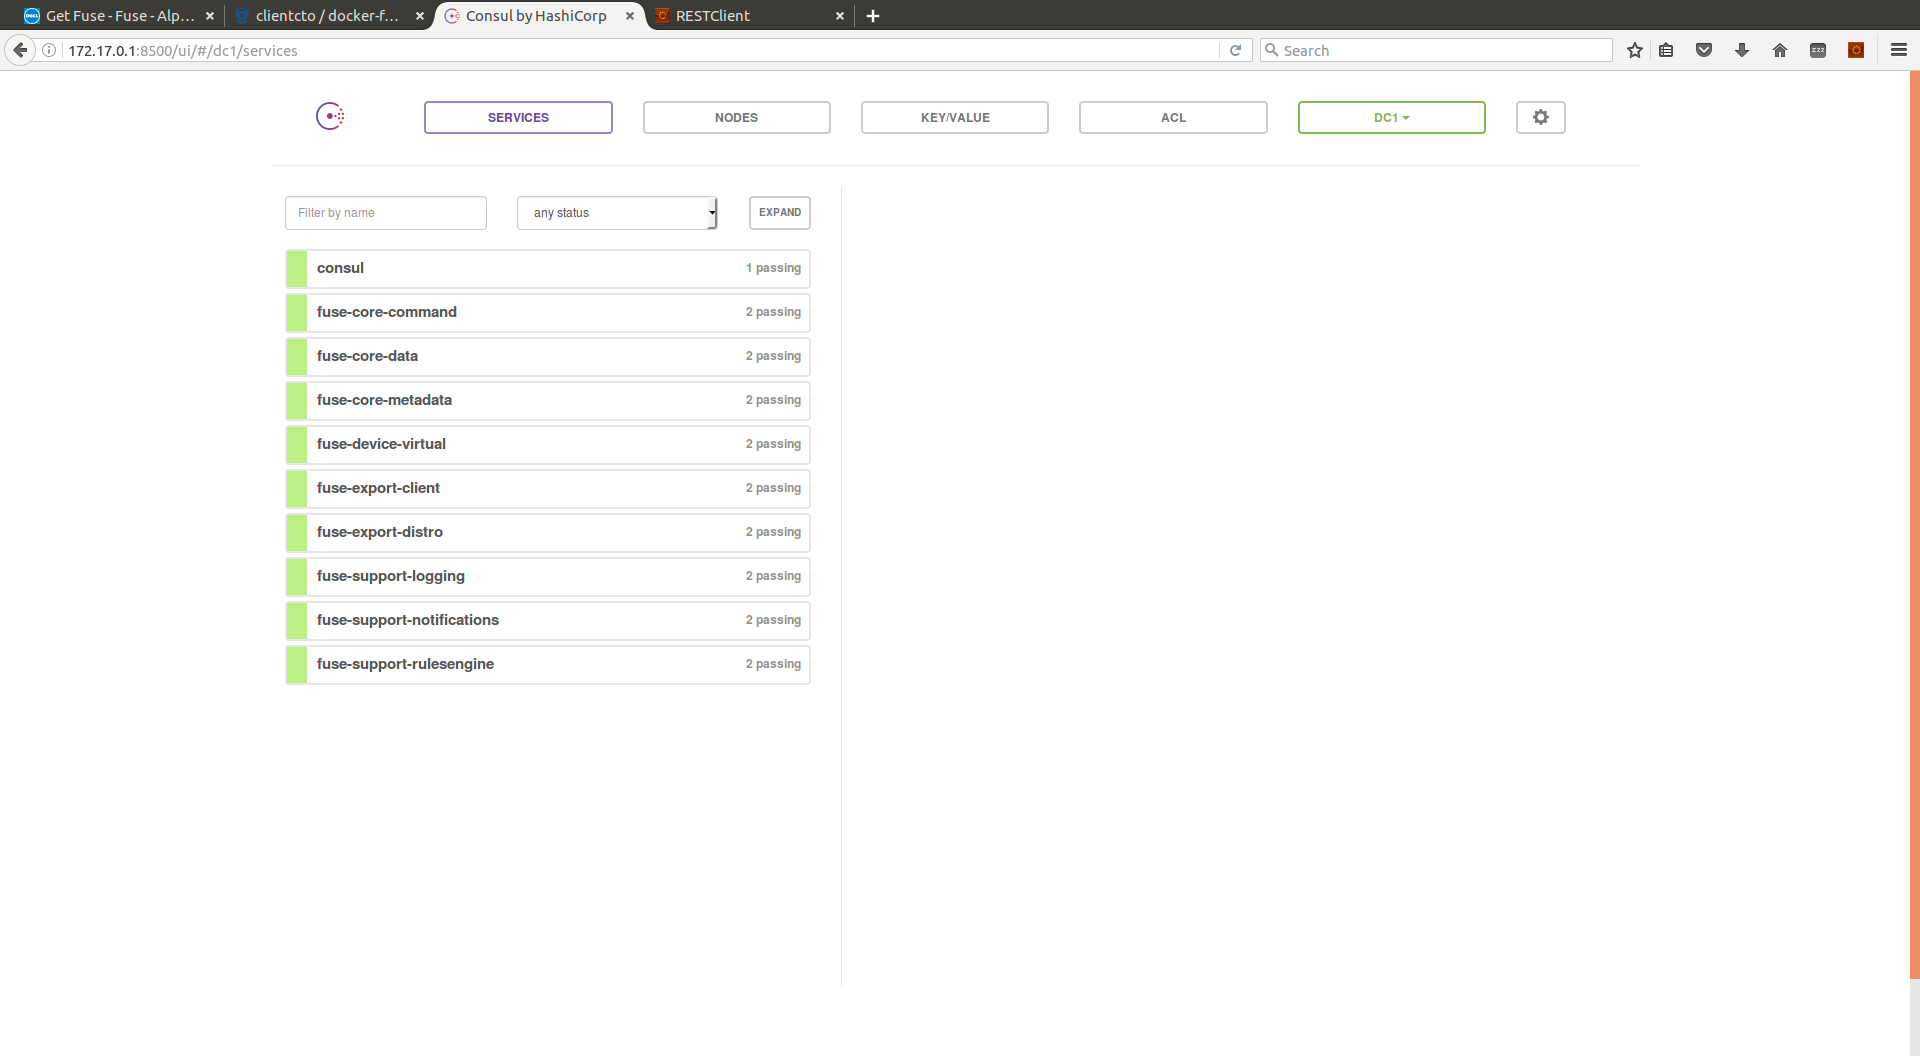
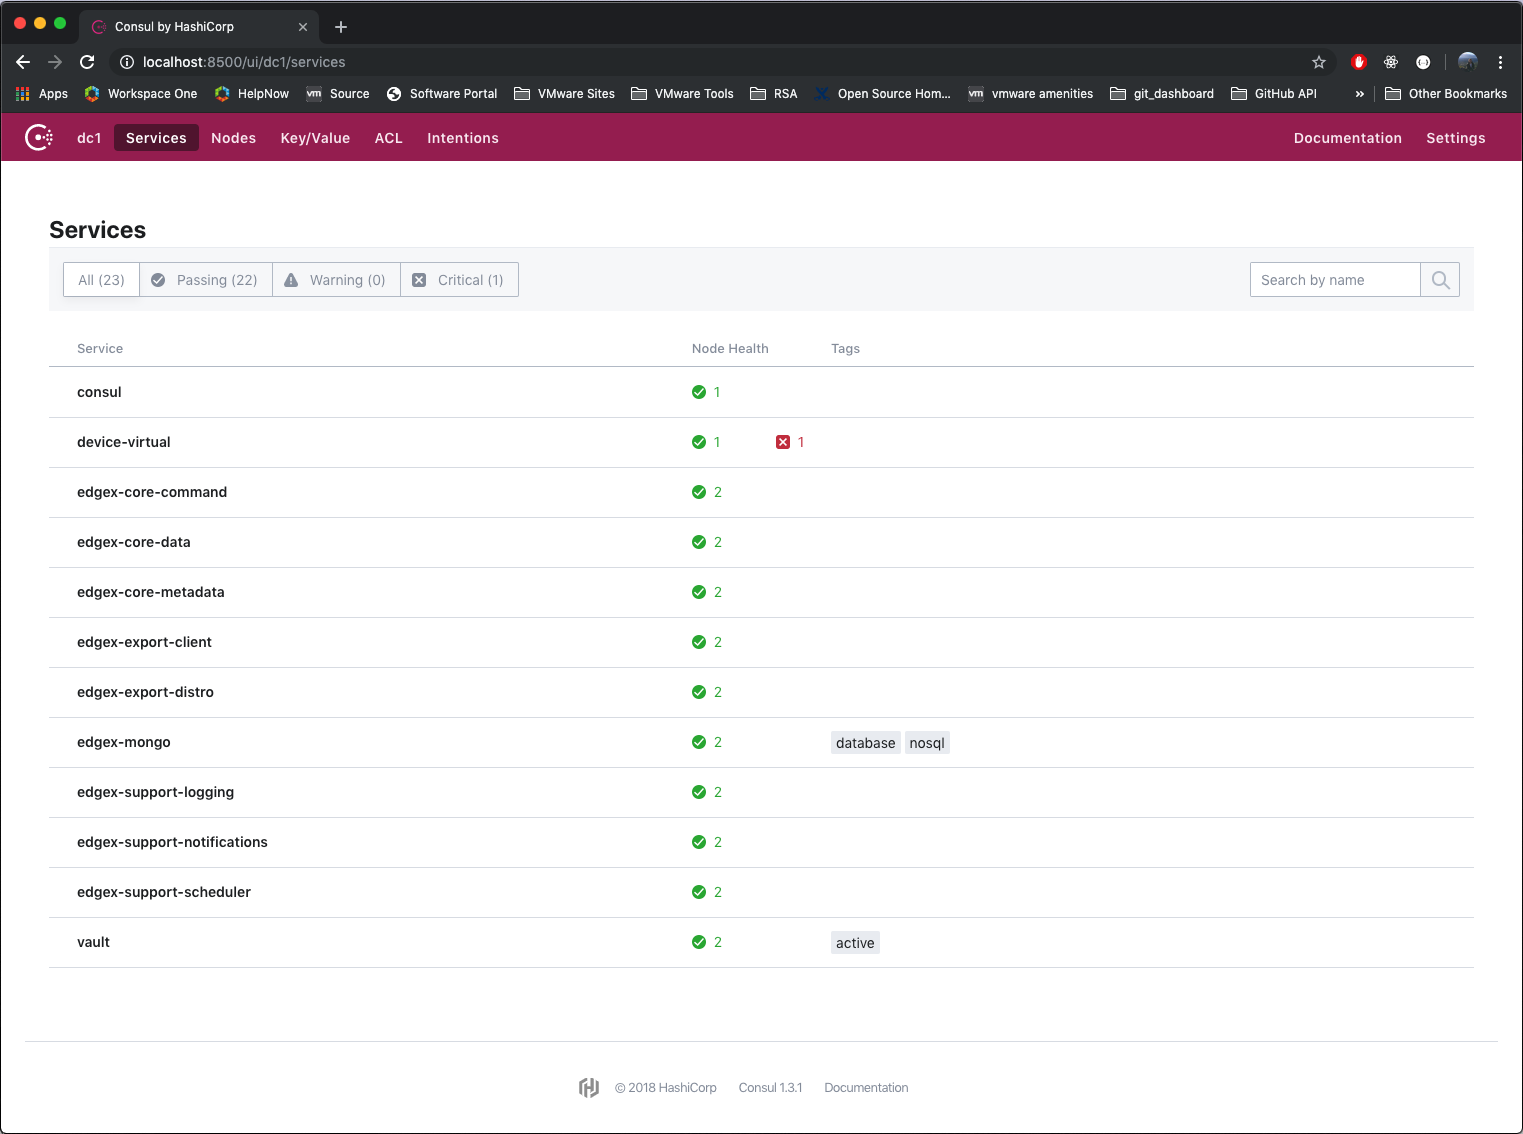
Fixes #1357: minor typos and new consul UI output in getting started user chapter

diff --git a/docs/getting-started/Ch-GettingStartedUsers.rst b/docs/getting-started/Ch-GettingStartedUsers.rst
@@ -15,30 +15,29 @@ To obtain and run EdgeX Foundry, perform the following steps:
 
 .. image:: EdgeX_GettingStartedUsrDocker.png
 
-=============
-What You Need
-=============
-EdgeX Foundry is an operating system (OS)-agnostic and hardware (HW)-agnostic edge software platform. Minimum platform requirements are being established. At this time use the following recommended characteristics:
+=====================
+Platform Requirements
+=====================
+EdgeX Foundry is an operating system (OS)-agnostic and hardware (HW)-agnostic IoT edge platform. While minimum platform requirements are yet being established, at this time the following options are recommended:
 
 * Memory:  minimum of 1 GB
-* Hard drive space:  minimum of 3 GB of space to run the EdgeX Foundry containers, but you may want more depending on how long sensor and device data is retained
-* OS: EdgeX Foundry has been run successfully on many systems including, but not limited to the following systems
+* Hard drive space:  minimum of 3 GB of space to run the EdgeX Foundry containers, but you may want more depending on how long sensor and device data is to be retained
+* OS: EdgeX Foundry has been run successfully on many systems, including, but not limited to the following systems
         * Windows (ver 7 - 10)
         * Ubuntu Desktop (ver 14-16)
         * Ubuntu Server (ver 14)
         * Ubuntu Core (ver 16)
         * Mac OS X 10
 
-=======================
+==========================================
 Get & Run EdgeX Foundry
-=======================
+==========================================
+|
+.. image:: EdgeX_GettingStartedUsrInstallDocker.png
 
 -------------------------------
 Install Docker & Docker Compose
 -------------------------------
-|
-.. image:: EdgeX_GettingStartedUsrInstallDocker.png
-
 To run Dockerized EdgeX Foundry, you need to install Docker.  See https://docs.docker.com/install/ to learn how to obtain and install Docker.  If you are new to using Docker, the same web site provides you additional information.  The following short video has is also very informative https://www.youtube.com/watch?time_continue=3&v=VhabrYF1nms
 
 Docker Compose is used to orchestrate the fetch (or pull), installation, and the start and stop of the EdgeX Foundry microservice containers. See:  https://docs.docker.com/compose/ to learn more about Docker Compose. 
@@ -68,6 +67,7 @@ A Docker Compose file is a manifest file, which lists:
 * The Docker containers (or more precisely the Docker container images) that should be downloaded, 
 * The order in which the containers should be started
 * The parameters under which the containers should be run
+
 
 -----------------
 Run EdgeX Foundry
@@ -208,7 +208,7 @@ The status above was created using **"docker ps -a --format "table {{.Names}}\t{
 
 **EdgeX Foundry Container Logs**
 
-To view the log of any container, use the command **"docker-compose logs -f [compose-contatainer-name]"**.  The example below shows the log for the data container.
+To view the log of any container, use the command **"docker-compose logs -f [compose-container-name]"**.  The example below shows the log for the data container.
 
 .. image:: EdgeX_GettingStartedUsrLogs.png
 
